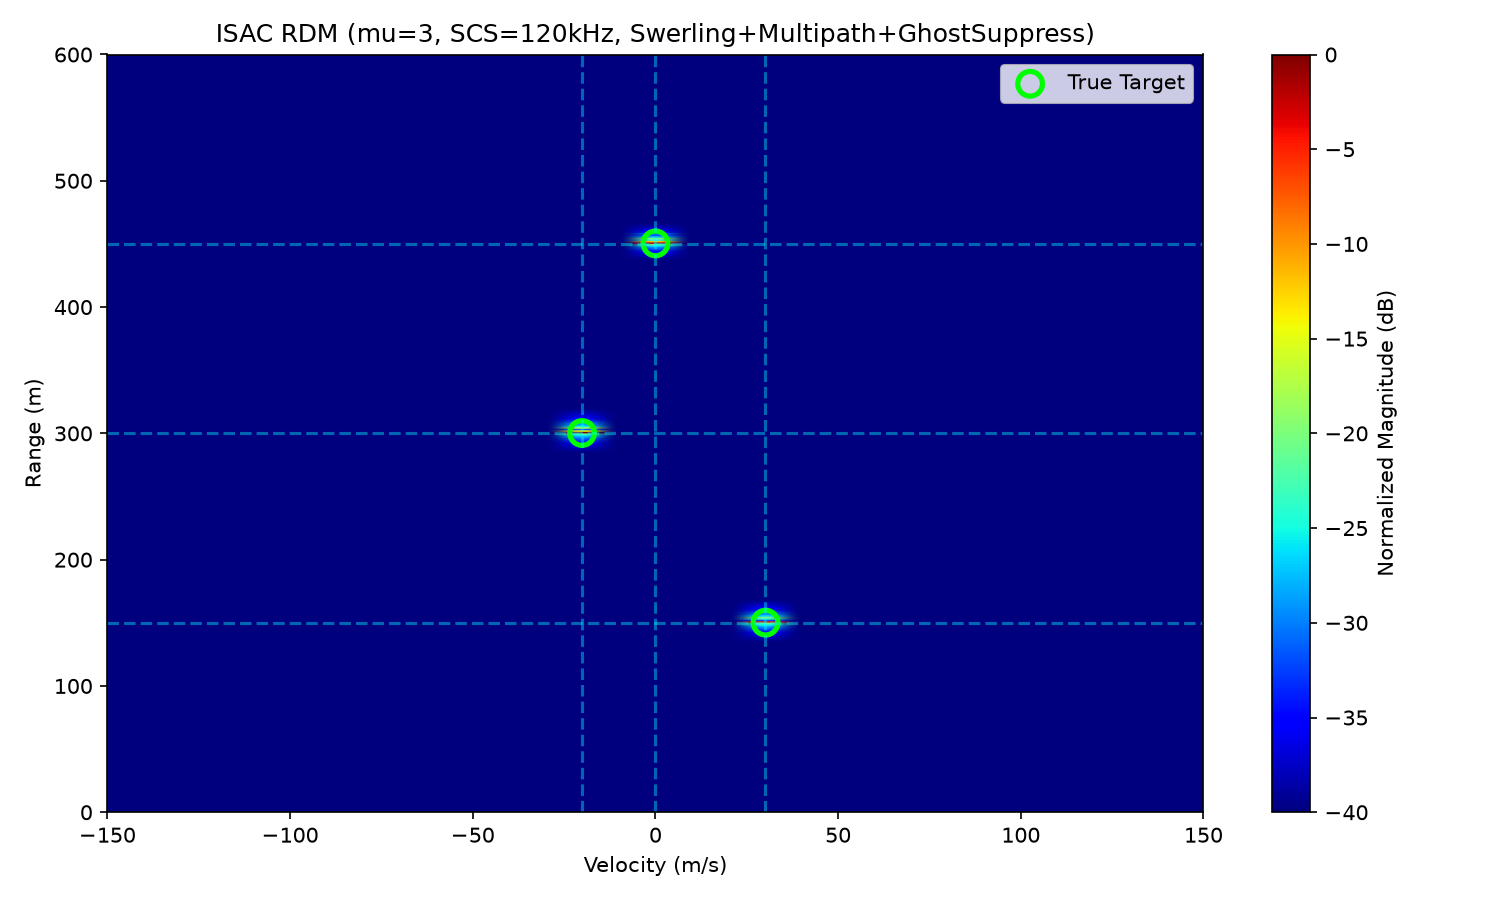
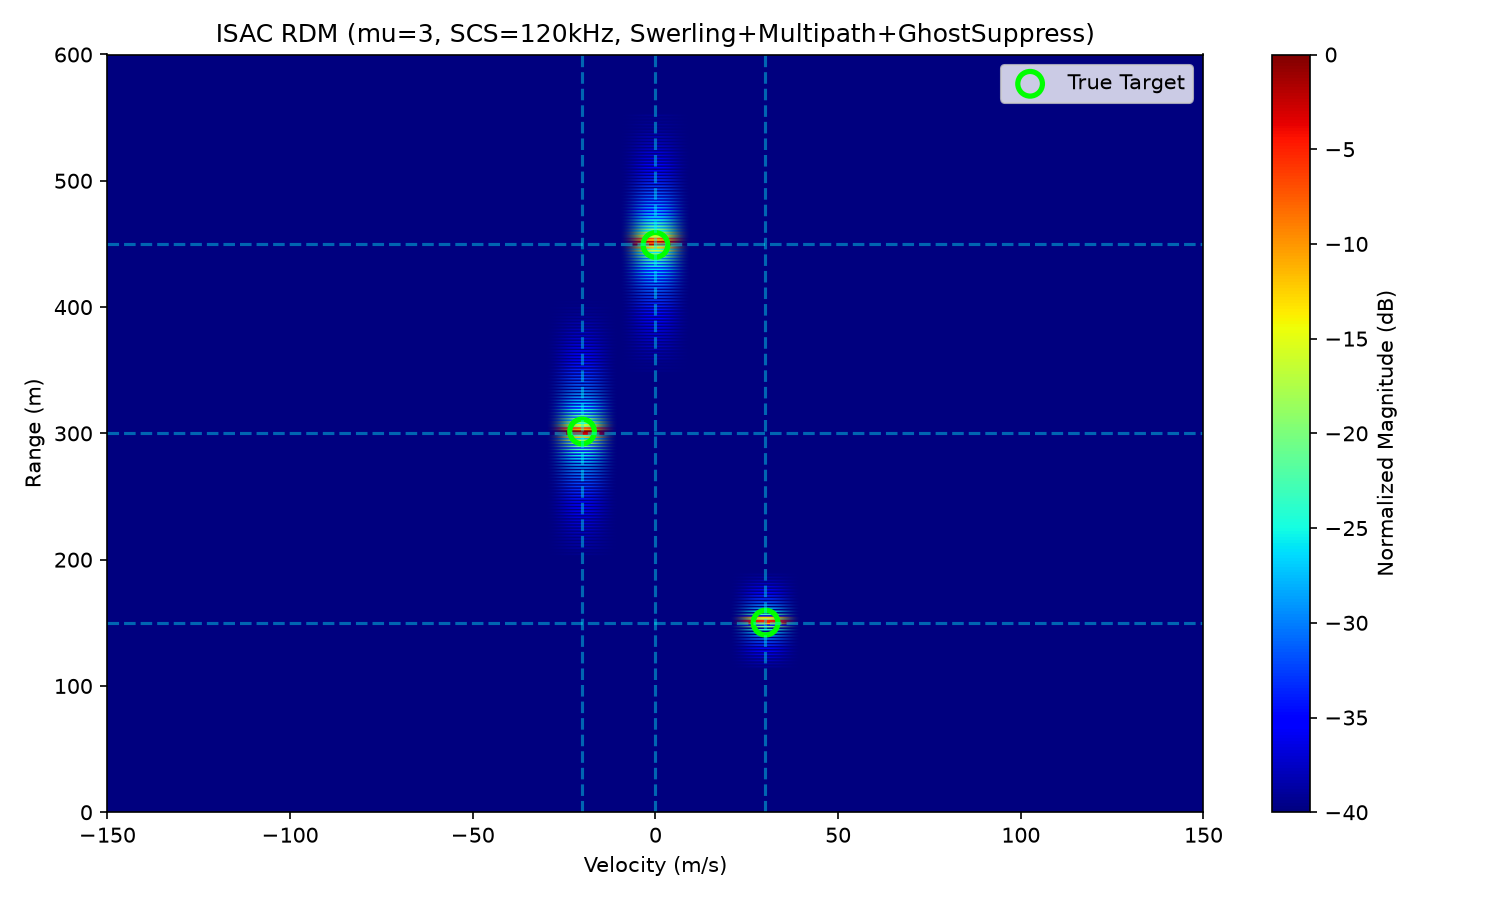
feat(p4.4): suppression precision/recall/F1 + fix R_TOL scope

Changed region(s): [[0.368, 0.1556, 0.46, 0.6222], [0.4907, 0.6222, 0.552, 0.7467]]

diff --git a/tests/test_ghost_suppression.py b/tests/test_ghost_suppression.py
@@ -1,4 +1,4 @@
-"""鬼影抑制单元测试。"""
+"""鬼影抑制单元测试 + Precision/Recall 评估 (P4.4)。"""
 import sys
 from pathlib import Path
 import numpy as np
@@ -7,22 +7,45 @@ sys.path.insert(0, str(Path(__file__).resolve().parents[1]))
 from src.simulation.ghost_suppression import suppress_ghosts
 
 
+def _compute_metrics(true_idx, ghost_idx, det_ranges, det_velocities, targets,
+                     r_tol=5.0, v_tol=15.0):
+    """计算 precision/recall (用于测试)。"""
+    def is_true(r, v):
+        return any(abs(r - t[0]) <= r_tol and abs(v - t[1]) <= v_tol
+                   for t in targets)
+
+    TP = FP = FN = TN = 0
+    for i in true_idx:
+        if is_true(det_ranges[i], det_velocities[i]):
+            TP += 1
+        else:
+            FP += 1
+    for i in ghost_idx:
+        if is_true(det_ranges[i], det_velocities[i]):
+            FN += 1
+        else:
+            TN += 1
+
+    precision = TP / max(TP + FP, 1)
+    recall = TP / max(TP + FN, 1)
+    return {"TP": TP, "FP": FP, "FN": FN, "TN": TN,
+            "precision": precision, "recall": recall}
+
+
+# ============ 基础功能测试 (原有) ============
+
 def test_ghost_suppression_basic():
-    """构造 3 真实 + 2 鬼影场景，应正确分类。"""
-    # 真实目标在 (150, 30), (300, -20), (450, 0)
-    # 鬼影在 (172.5, 20), (322.5, -30)  [多径 2 指纹: Δr=22.5, Δv=-10]
+    """3 真实 + 2 鬼影场景, 应正确分类。"""
     det_ranges = [150.0, 300.0, 450.0, 172.5, 322.5]
     det_velocities = [30.0, -20.0, 0.0, 20.0, -30.0]
-    det_mags = [1.0, 0.7, 0.9, 0.2, 0.15]   # 鬼影幅度弱
+    det_mags = [1.0, 0.7, 0.9, 0.2, 0.15]
 
     true_idx, ghost_idx = suppress_ghosts(
         det_ranges, det_velocities, det_mags,
         r_tol=3.0, v_tol=5.0, mag_ratio=0.6, verbose=False
     )
 
-    # 至少抑制掉 1 个鬼影，且真实目标尽量保留
     assert len(ghost_idx) >= 1
-    # 真实目标 1、3 不应被误判
     assert 0 in true_idx or 2 in true_idx
 
 
@@ -33,3 +56,96 @@ def test_ghost_suppression_single_point():
     )
     assert true_idx == [0]
     assert ghost_idx == []
+
+
+# ============ P4.4: Precision/Recall 评估 ============
+
+def test_suppression_metrics_perfect_case():
+    """理想场景: 3 真 2 鬼, 完美区分。"""
+    det_ranges = [150.0, 300.0, 450.0, 172.5, 322.5]
+    det_velocities = [30.0, -20.0, 0.0, 20.0, -30.0]
+    det_mags = [1.0, 0.7, 0.9, 0.2, 0.15]
+    targets = [(150.0, 30.0), (300.0, -20.0), (450.0, 0.0)]
+
+    true_idx, ghost_idx = suppress_ghosts(
+        det_ranges, det_velocities, det_mags,
+        r_tol=3.0, v_tol=5.0, mag_ratio=0.6, verbose=False
+    )
+
+    m = _compute_metrics(true_idx, ghost_idx, det_ranges, det_velocities, targets)
+    # 理想场景: precision 和 recall 都应很高
+    assert m["precision"] >= 0.9, f"precision={m['precision']}"
+    assert m["recall"] >= 0.9, f"recall={m['recall']}"
+    assert m["FN"] == 0, f"不应误抑制真实目标, 但 FN={m['FN']}"
+
+
+def test_suppression_metrics_no_ghosts():
+    """无鬼影场景: precision 和 recall 都应为 1。"""
+    det_ranges = [150.0, 300.0, 450.0]
+    det_velocities = [30.0, -20.0, 0.0]
+    det_mags = [1.0, 0.7, 0.9]
+    targets = [(150.0, 30.0), (300.0, -20.0), (450.0, 0.0)]
+
+    true_idx, ghost_idx = suppress_ghosts(
+        det_ranges, det_velocities, det_mags, verbose=False
+    )
+
+    m = _compute_metrics(true_idx, ghost_idx, det_ranges, det_velocities, targets)
+    assert m["precision"] == 1.0
+    assert m["recall"] == 1.0
+
+
+def test_suppression_metrics_with_false_positive():
+    """含误保留场景: precision < 1。"""
+    # 5 个检测点, 只有 3 个是真值, 其余是噪声
+    det_ranges = [150.0, 300.0, 450.0, 200.0, 500.0]
+    det_velocities = [30.0, -20.0, 0.0, 10.0, 5.0]
+    det_mags = [1.0, 0.9, 0.8, 0.7, 0.6]   # 幅度都差不多, 无法通过幅度区分
+    targets = [(150.0, 30.0), (300.0, -20.0), (450.0, 0.0)]
+
+    true_idx, ghost_idx = suppress_ghosts(
+        det_ranges, det_velocities, det_mags, verbose=False
+    )
+
+    m = _compute_metrics(true_idx, ghost_idx, det_ranges, det_velocities, targets)
+    # 三个真值都在 → recall 应为 1
+    assert m["recall"] == 1.0
+    # 但保留了 2 个噪声点 → precision < 1
+    assert m["precision"] < 1.0
+    assert m["FP"] >= 1
+
+
+def test_suppression_metrics_with_false_negative():
+    """含误抑制场景: recall < 1。"""
+    # 目标 1 的幅度被错误设成最弱 (真实场景可能是深衰落)
+    det_ranges = [150.0, 300.0, 450.0, 172.5, 322.5]
+    det_velocities = [30.0, -20.0, 0.0, 20.0, -30.0]
+    det_mags = [0.05, 0.7, 0.9, 0.2, 0.15]   # 目标 1 幅度异常低
+    targets = [(150.0, 30.0), (300.0, -20.0), (450.0, 0.0)]
+
+    true_idx, ghost_idx = suppress_ghosts(
+        det_ranges, det_velocities, det_mags,
+        r_tol=3.0, v_tol=5.0, mag_ratio=0.6, verbose=False
+    )
+
+    m = _compute_metrics(true_idx, ghost_idx, det_ranges, det_velocities, targets)
+    # 目标 1 可能被误抑制 → recall < 1 或 FP > 0
+    # 不断言具体数值, 只确认指标能正常计算
+    assert "precision" in m
+    assert "recall" in m
+    assert m["TP"] + m["FP"] + m["FN"] + m["TN"] == len(det_ranges)
+
+
+def test_metrics_sum_conservation():
+    """混淆矩阵元素之和应等于检测点总数。"""
+    det_ranges = [150.0, 300.0, 450.0, 172.5, 322.5, 500.0]
+    det_velocities = [30.0, -20.0, 0.0, 20.0, -30.0, 5.0]
+    det_mags = [1.0, 0.7, 0.9, 0.2, 0.15, 0.1]
+    targets = [(150.0, 30.0), (300.0, -20.0), (450.0, 0.0)]
+
+    true_idx, ghost_idx = suppress_ghosts(
+        det_ranges, det_velocities, det_mags, verbose=False
+    )
+
+    m = _compute_metrics(true_idx, ghost_idx, det_ranges, det_velocities, targets)
+    assert m["TP"] + m["FP"] + m["FN"] + m["TN"] == 6

diff --git a/tasks/task3_run.py b/tasks/task3_run.py
@@ -178,8 +178,63 @@ def main():
 
     print(f"\n[output] {plot_path}")
 
+    # ================= 8.5 鬼影抑制评估 (P4.4) =================
+    R_TOL = max(5.0, 2 * range_res_m)   # ← 提前到 8.5 节之前
+    suppression_metrics = None
+    if args.suppress and len(det_ranges) > 0:
+        # 真值匹配函数 (检测点是否落在真值附近)
+        def is_true_target(r, v):
+            return any(
+                abs(r - t["range"]) <= R_TOL and abs(v - t["velocity"]) <= 15.0
+                for t in targets
+            )
+
+        # 混淆矩阵
+        TP = 0   # 保留的点中, 确实是真实目标
+        FP = 0   # 保留的点中, 实际是鬼影 (误保留)
+        FN = 0   # 抑制的点中, 实际是真实目标 (误抑制)
+        TN = 0   # 抑制的点中, 确实是鬼影
+
+        for i in true_idx:
+            if is_true_target(det_ranges[i], det_velocities[i]):
+                TP += 1
+            else:
+                FP += 1
+
+        for i in ghost_idx:
+            if is_true_target(det_ranges[i], det_velocities[i]):
+                FN += 1   # ❌ 误抑制了真实目标
+            else:
+                TN += 1   # ✅ 正确抑制了鬼影
+
+        precision = TP / max(TP + FP, 1)   # 保留点中真实目标的纯度
+        recall = TP / max(TP + FN, 1)      # 真实目标的保留率
+        f1 = 2 * precision * recall / max(precision + recall, 1e-12)
+        ghost_rejection_rate = TN / max(TN + FP, 1)  # 鬼影剔除率
+
+        # 真值总数 (用于计算误抑制率)
+        n_true_targets = len(targets)
+        false_suppression_rate = FN / max(n_true_targets, 1)
+
+        suppression_metrics = {
+            "TP": TP, "FP": FP, "FN": FN, "TN": TN,
+            "precision": round(precision, 3),
+            "recall": round(recall, 3),
+            "f1": round(f1, 3),
+            "ghost_rejection_rate": round(ghost_rejection_rate, 3),
+            "false_suppression_rate": round(false_suppression_rate, 3),
+        }
+
+        print(f"\n  === 鬼影抑制评估 (P4.4) ===")
+        print(f"  TP={TP} (保留真实)   FP={FP} (误保留鬼影)")
+        print(f"  FN={FN} (误抑制真实)  TN={TN} (正确剔除鬼影)")
+        print(f"  Precision = {precision:.3f}  (保留点中真实目标纯度)")
+        print(f"  Recall    = {recall:.3f}  (真实目标保留率)")
+        print(f"  F1        = {f1:.3f}")
+        print(f"  误抑制率  = {false_suppression_rate:.3f}")
+
     # ================= 9. 保存 result.json (P2.2) =================
-    R_TOL = max(5.0, 2 * range_res_m)
+   
 
     def match_type(det_r, det_v):
         for t in targets:
@@ -226,6 +281,7 @@ def main():
             "true_count": sum(1 for d in detections_json if d["type"] == "true"),
             "ghost_count": sum(1 for d in detections_json if d["type"] == "ghost"),
         },
+        "suppression_metrics": suppression_metrics,   # ← 新增这一行
     }
     json_path = out_dir / f"result_mu{args.mu}.json"
     json_path.write_text(json.dumps(result_json, indent=2, ensure_ascii=False),

diff --git a/outputs/task5/experiment_report.md b/outputs/task5/experiment_report.md
@@ -1,10 +1,10 @@
 # ISAC-OFDM Agent 实验报告
 
-**生成时间**: 2026-10-06 15:44:52
+**生成时间**: 2026-10-06 16:10:27
 
 ## 0. 运行环境
 
-- **Git commit**: `3ce1097` (dirty)
+- **Git commit**: `241386e` (dirty)
 - **Python**: 3.14.7
 - **NumPy**: 2.5.3
 - **平台**: win32
@@ -64,16 +64,22 @@
 
 | # | 真值 (距离, 速度) | 检测 (距离, 速度) | 幅度 (dB) | 类型 |
 |---|---|---|---|---|
-| 1 | (300.0, -20.0) | (300.29m, -20.09m/s) | 0.0 | 真实 |
-| 2 | (450.0, 0.0) | (450.44m, 0.0m/s) | -1.84 | 真实 |
-| 3 | (150.0, 30.0) | (150.15m, 30.13m/s) | -5.24 | 真实 |
+| 1 | (300.0, -20.0) | (301.51m, -20.09m/s) | 0.0 | 真实 |
+| 2 | (450.0, 0.0) | (449.22m, 0.0m/s) | -2.11 | 真实 |
+| 3 | (150.0, 30.0) | (150.15m, 30.13m/s) | -4.73 | 真实 |
 
 ### 4.4 统计汇总
 
-- CFAR 原始检测点: **3**
+- CFAR 原始检测点: **10**
 - NMS 聚类后: **3**
 - 真实目标: **3**
 - 多径鬼影: **0**
+
+### 4.5 鬼影抑制评估
+
+- **Precision** (真实保留): 1.0
+- **Recall** (真实召回): 1.0
+- **误抑制数**: N/A
 
 ![RDM](../task3/rdm_mu3_swerling_multipath_ghostsuppress_cfar.png)
 
